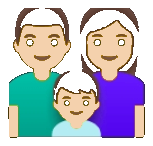
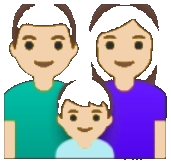
Update emoji assets and integrate picker functionality in smart scheduler
Replit-Commit-Author: Agent

diff --git a/artifacts/smart-scheduler/lib/tabs/events_tab.dart b/artifacts/smart-scheduler/lib/tabs/events_tab.dart
@@ -15202,18 +15202,33 @@ Widget _renderCatIcon(
 
   Widget inner;
   if (_isEmojiIcon(iconOrSvg)) {
-    // Emoji: render as native Unicode text — no color tint, fills circle naturally.
+    final familyAsset = emojiFamilyAssetFor(iconOrSvg);
+    if (familyAsset != null) {
+      // Family sprites preserve the exact picker artwork while the original
+      // Unicode value remains the category's stored selection.
+      inner = Image.asset(
+        familyAsset,
+        width: iconSz,
+        height: iconSz,
+        fit: BoxFit.contain,
+        filterQuality: FilterQuality.high,
+        excludeFromSemantics: true,
+      );
+    } else {
+      // Emoji: render as native Unicode text — no color tint, fills circle naturally.
+      inner = Text(
+        iconOrSvg as String,
+        style: TextStyle(fontSize: iconSz, height: 1.0),
+        textScaler: TextScaler.noScaling,
+      );
+    }
     return SizedBox(
       width: containerSize,
       height: containerSize,
       child: Center(
         child: Transform.translate(
           offset: offset,
-          child: Text(
-            iconOrSvg as String,
-            style: TextStyle(fontSize: iconSz, height: 1.0),
-            textScaler: TextScaler.noScaling,
-          ),
+          child: inner,
         ),
       ),
     );
@@ -15271,11 +15286,28 @@ Widget _buildDcvCatIcon(Object iconOrSvg, Color color, {BuildContext? ctx}) {
 
   Widget inner;
   if (_isEmojiIcon(iconOrSvg)) {
+    final familyAsset = emojiFamilyAssetFor(iconOrSvg);
+    if (familyAsset != null) {
+      return Transform.translate(
+        offset: offset,
+        child: Image.asset(
+          familyAsset,
+          width: iconSz,
+          height: iconSz,
+          fit: BoxFit.contain,
+          filterQuality: FilterQuality.high,
+          excludeFromSemantics: true,
+        ),
+      );
+    }
     // Emoji: render as native Unicode text without colour tint.
-    return Text(
-      iconOrSvg as String,
-      style: TextStyle(fontSize: iconSz, height: 1.0),
-      textScaler: TextScaler.noScaling,
+    return Transform.translate(
+      offset: offset,
+      child: Text(
+        iconOrSvg as String,
+        style: TextStyle(fontSize: iconSz, height: 1.0),
+        textScaler: TextScaler.noScaling,
+      ),
     );
   }
   if (iconOrSvg is String) {
@@ -15346,6 +15378,17 @@ Widget _buildPickerIcon(Object iconOrSvg, Color color, {BuildContext? ctx}) {
 // Raw icon widget — no positional offset applied.
 Widget _buildPickerIconRaw(Object iconOrSvg, Color color, {BuildContext? ctx}) {
   if (_isEmojiIcon(iconOrSvg)) {
+    final familyAsset = emojiFamilyAssetFor(iconOrSvg);
+    if (familyAsset != null) {
+      return Image.asset(
+        familyAsset,
+        width: _kEmojiGlyphSize,
+        height: _kEmojiGlyphSize,
+        fit: BoxFit.contain,
+        filterQuality: FilterQuality.high,
+        excludeFromSemantics: true,
+      );
+    }
     // Emoji: render as native Unicode text at the shared reference size.
     return Text(
       iconOrSvg as String,

diff --git a/artifacts/smart-scheduler/lib/widgets/emoji_picker_sheet.dart b/artifacts/smart-scheduler/lib/widgets/emoji_picker_sheet.dart
@@ -903,6 +903,11 @@ const Map<String, String> _familyEmojiAssets = {
   '👨👩👧👦': 'assets/emoji_family/family_two_children.png',
 };
 
+/// Returns the display-only asset for a family emoji whose original Unicode
+/// value must remain unchanged for selection and persistence.
+String? emojiFamilyAssetFor(Object value) =>
+    value is String ? _familyEmojiAssets[value] : null;
+
 // ─────────────────────────────────────────────────────────────────────────────
 // EmojiPickerSheet — full-page sheet content for showRoundedCupertinoSheet
 // ─────────────────────────────────────────────────────────────────────────────
@@ -1437,8 +1442,11 @@ class _EmojiPickerSheetState extends State<EmojiPickerSheet> {
                         )
                         : Image.asset(
                           familyAsset,
-                          width: cellSize,
-                          height: cellSize,
+                          // Match the visual footprint of the normal emoji
+                          // Text. The cell remains the full tap target, but
+                          // the sprite must not stretch to fill it.
+                          width: cellFontSize,
+                          height: cellFontSize,
                           fit: BoxFit.contain,
                           filterQuality: FilterQuality.high,
                           excludeFromSemantics: true,
